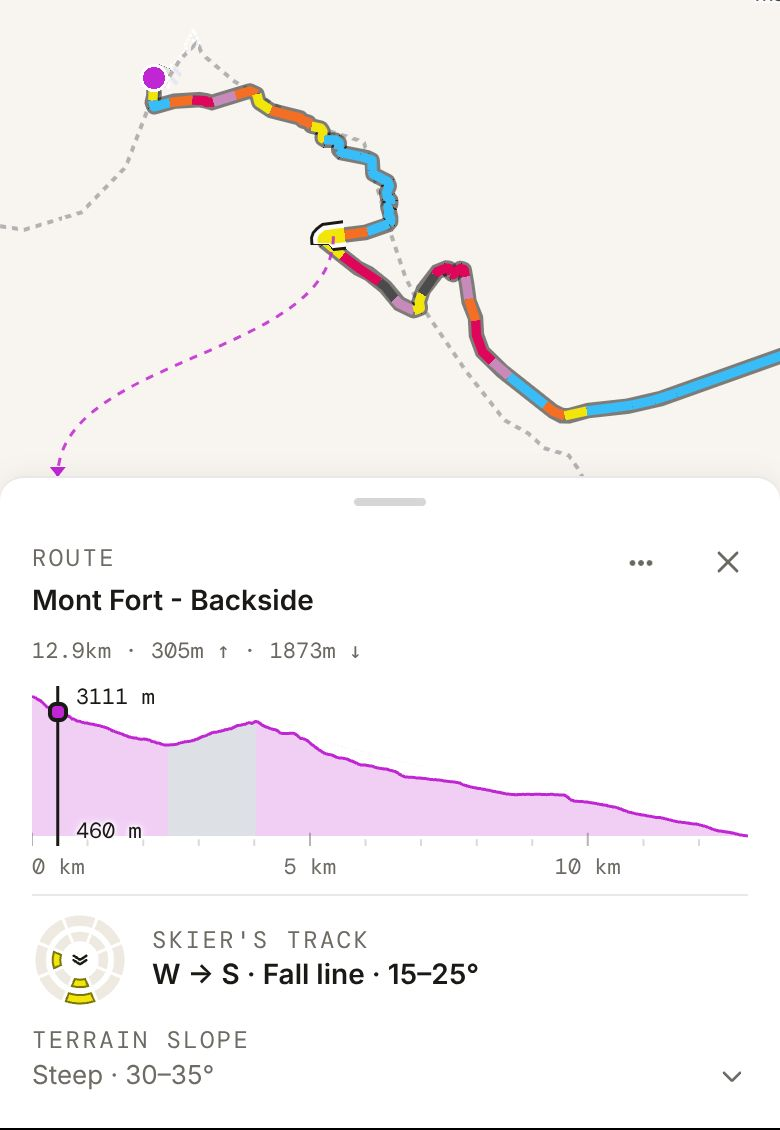
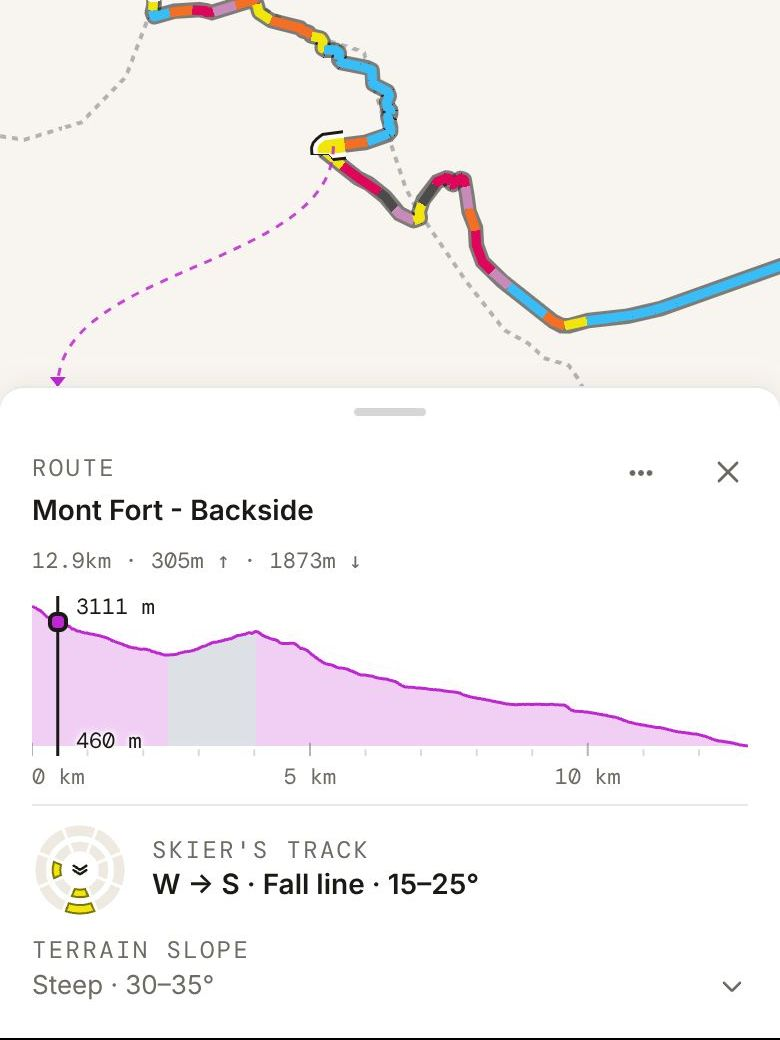
WIP: homepage draft 3 — route and weather each on a panel, visual 2/3
Fixed-ratio image boxes (hero 4:5 / 16:9, panels 3:4 / 16:10) so final
screenshots drop in without layout changes.

Claude-Session: https://claude.ai/code/session_01AbjocKwx78q7QoEFKxwUSW

diff --git a/apps/public/templates/public/home.html b/apps/public/templates/public/home.html
@@ -107,7 +107,7 @@ parameters never reaches this template — views.home 301s it to /map/.
                         src="{% static 'img/home/hero-mobile.jpg' %}"
                         width="780"
                         height="1220"
-                        class="block w-full h-auto"
+                        class="block w-full h-auto aspect-[4/5] md:aspect-video object-cover object-bottom md:object-left-top"
                         alt="{% trans 'The Snowdesk map on 11 January 2026: Swiss warning regions coloured by danger level, with the Martigny–Verbier bulletin open at level 4.' %}"
                     >
                 </picture>
@@ -131,28 +131,30 @@ parameters never reaches this template — views.home 301s it to /map/.
         </section>
 
         {# ---------------------------------------------------------------- #}
-        {# Two closer looks, side by side on desktop: the route (the        #}
-        {# differentiator — on a card, in the wider column) and the         #}
-        {# weather. On a phone each phone-sized capture sits above its text. #}
+        {# Two closer looks, each on its own panel: the visual takes 2/3 of #}
+        {# the width on desktop and the text 1/3, alternating sides. On a   #}
+        {# phone the phone-sized capture sits above its text. The image     #}
+        {# boxes hold fixed ratios (3:4 phone, 16:10 desktop) so a new      #}
+        {# screenshot drops in without touching the layout.                 #}
         {# ---------------------------------------------------------------- #}
-        <div class="grid gap-10 md:grid-cols-12 md:gap-8 items-start mb-12" data-testid="home-features">
+        <div class="grid gap-8 mb-12" data-testid="home-features">
             <section
-                class="grid gap-5 md:col-span-7 rounded-card border border-border bg-card p-4 md:p-6"
+                class="grid gap-6 md:grid-cols-3 md:gap-8 items-center rounded-card border border-border bg-card p-4 md:p-6"
                 aria-labelledby="home-route-heading"
                 data-testid="home-feature-route"
             >
                 <a
                     href="{{ map_url }}?panel=routes"
-                    class="block rounded-card overflow-hidden border border-border max-w-64 md:max-w-none mx-auto w-full"
+                    class="block md:col-span-2 rounded-card overflow-hidden border border-border max-w-72 md:max-w-none mx-auto w-full"
                 >
                     <picture>
-                        <source media="(min-width: 768px)" srcset="{% static 'img/home/route-desktop.jpg' %}" width="1040" height="800">
+                        <source media="(min-width: 768px)" srcset="{% static 'img/home/route-desktop.jpg' %}">
                         <img
                             src="{% static 'img/home/route-mobile.jpg' %}"
                             width="780"
-                            height="1130"
+                            height="1040"
                             loading="lazy"
-                            class="block w-full h-auto"
+                            class="block w-full h-auto aspect-[3/4] md:aspect-[16/10] object-cover object-top"
                             alt="{% trans 'A ski tour off the back of Mont Fort analysed in Snowdesk: the line coloured by slope angle, its elevation profile, and a point card reading a fall-line descent of 15–25° on steep 30–35° ground.' %}"
                         >
                     </picture>
@@ -181,27 +183,27 @@ parameters never reaches this template — views.home 301s it to /map/.
             </section>
 
             <section
-                class="grid gap-5 md:col-span-5 md:pt-6"
+                class="grid gap-6 md:grid-cols-3 md:gap-8 items-center rounded-card border border-border bg-card p-4 md:p-6"
                 aria-labelledby="home-weather-heading"
                 data-testid="home-feature-weather"
             >
                 <a
                     href="{% url 'public:resorts' %}"
-                    class="block rounded-card overflow-hidden border border-border bg-card max-w-64 md:max-w-none mx-auto w-full"
+                    class="block md:col-span-2 md:order-2 rounded-card overflow-hidden border border-border max-w-72 md:max-w-none mx-auto w-full"
                 >
                     <picture>
-                        <source media="(min-width: 768px)" srcset="{% static 'img/home/weather-desktop.jpg' %}" width="1062" height="806">
+                        <source media="(min-width: 768px)" srcset="{% static 'img/home/weather-desktop.jpg' %}">
                         <img
                             src="{% static 'img/home/weather-mobile.jpg' %}"
                             width="780"
-                            height="1220"
+                            height="1040"
                             loading="lazy"
-                            class="block w-full h-auto"
+                            class="block w-full h-auto aspect-[3/4] md:aspect-[16/10] object-cover object-top"
                             alt="{% trans 'The Snowdesk forecast for Verbier village at 1,494 m: the week ahead, and today hour by hour with temperature, freezing level and snowfall.' %}"
                         >
                     </picture>
                 </a>
-                <div>
+                <div class="md:order-1">
                     {% trans "Mountain weather" as weather_eyebrow %}
                     {% include "includes/_eyebrow.html" with text=weather_eyebrow tag="p" class_extra="mb-2" %}
                     <h2 id="home-weather-heading" class="text-xl font-semibold text-text-1 mb-3">
